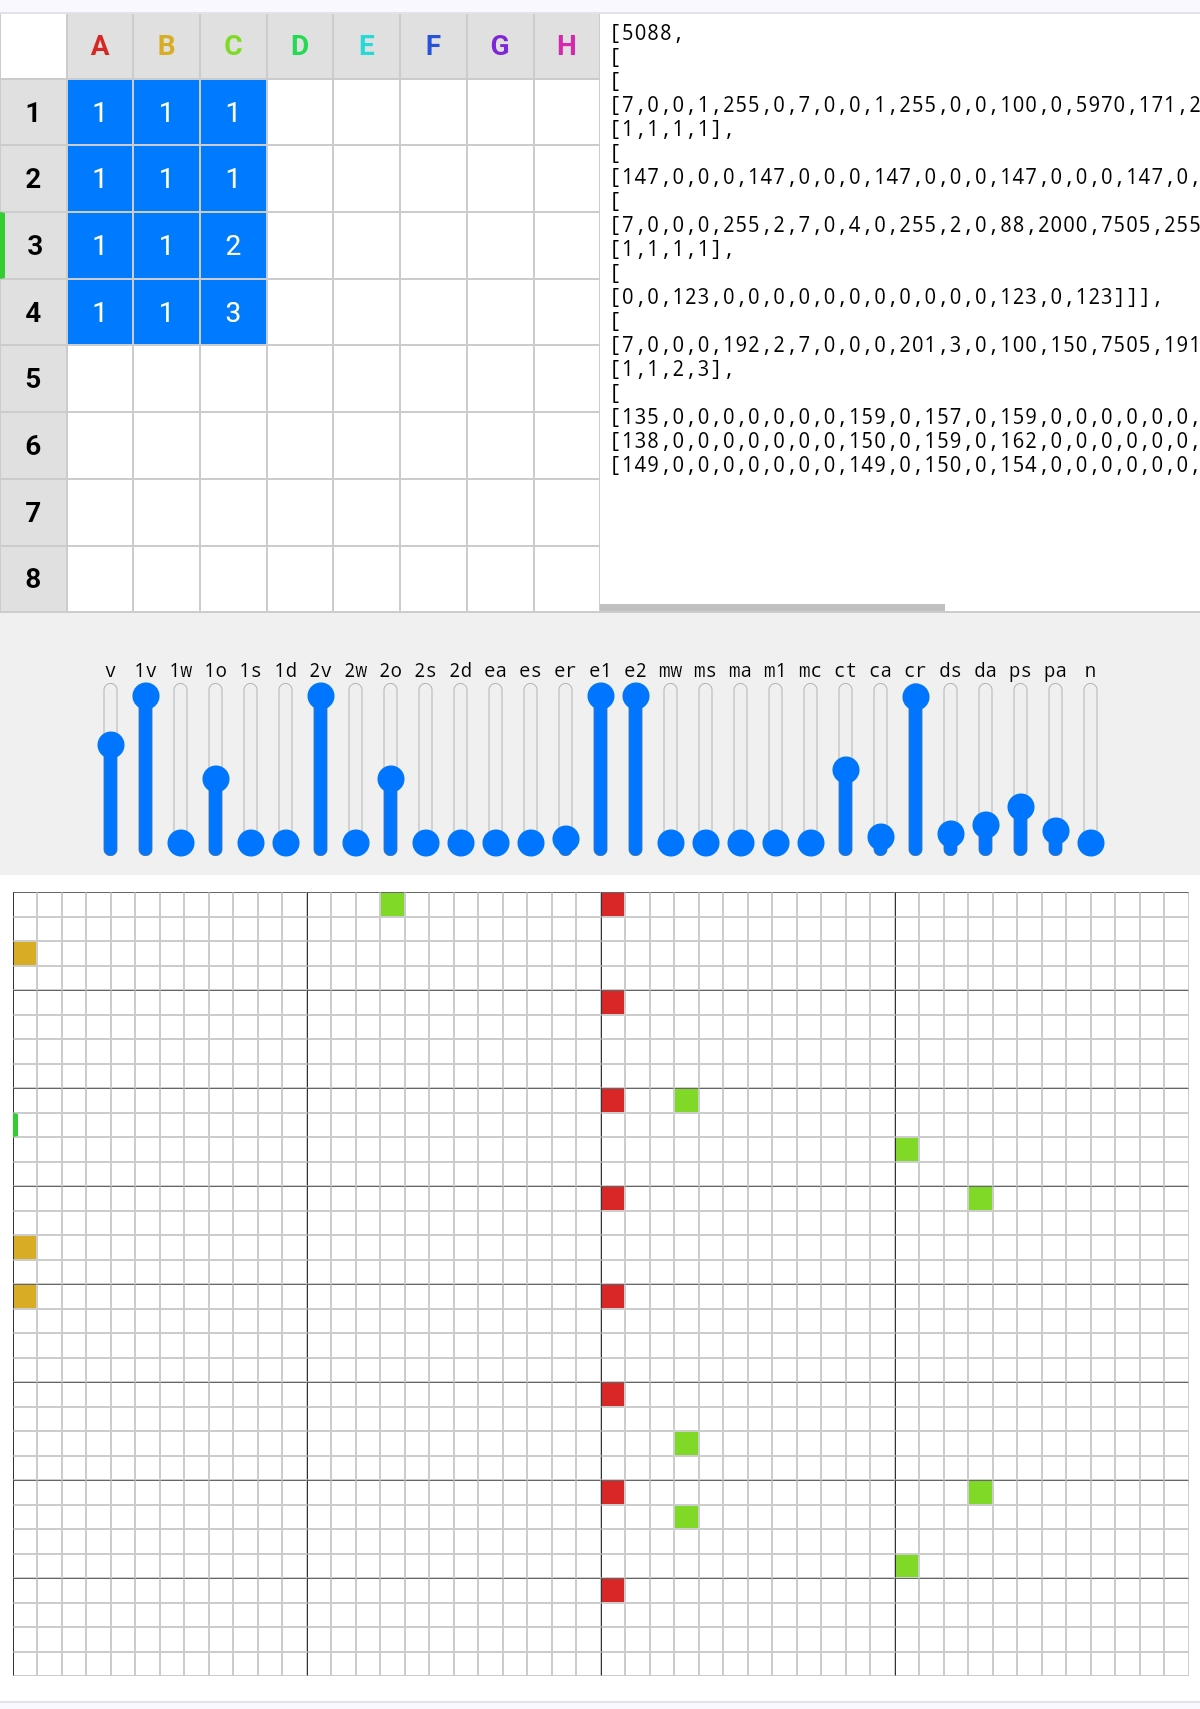
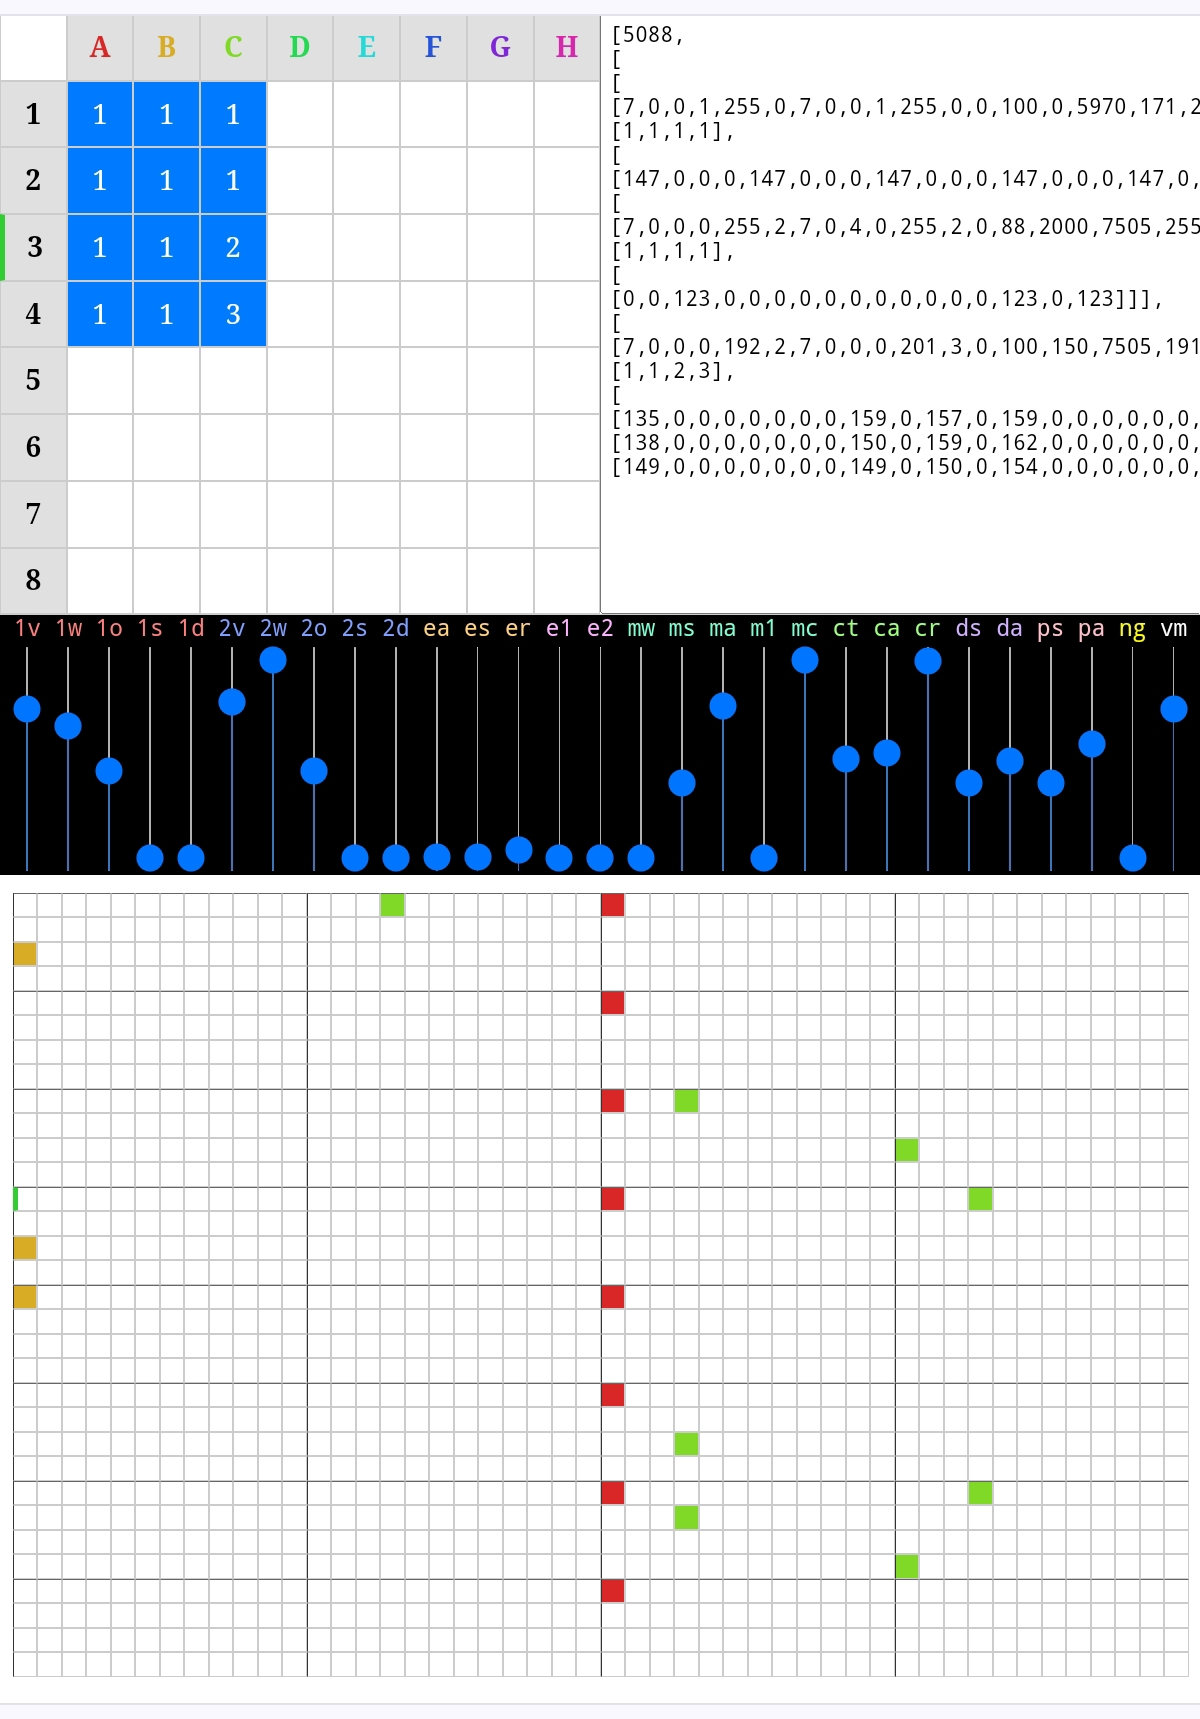
updates

diff --git a/index.js b/index.js
@@ -7,35 +7,54 @@ const WASM_SYNTH_INITIALIZER = pl_synth_wasm_init;
 
 // --- Instrument Parameter Definitions ---
 const PARAM_MAP = [
-  {label: 'v', index: 16, min: 0, max: 255, description: 'Master Volume'},
-  {label: '1v', index: 4, min: 0, max: 255, description: 'Oscillator 1: Volume'},
-  {label: '1w', index: 5, min: 0, max: 3, description: 'Oscillator 1: Waveform (0:Sin,1:Sqr,2:Saw,3:Tri)'},
-  {label: '1o', index: 0, min: 0, max: 16, description: 'Oscillator 1: Octave'},
-  {label: '1s', index: 1, min: 0, max: 11, description: 'Oscillator 1: Semitone'},
-  {label: '1d', index: 2, min: 0, max: 255, description: 'Oscillator 1: Detune'},
-  {label: '2v', index: 10, min: 0, max: 255, description: 'Oscillator 2: Volume'},
-  {label: '2w', index: 11, min: 0, max: 3, description: 'Oscillator 2: Waveform (0:Sin,1:Sqr,2:Saw,3:Tri)'},
-  {label: '2o', index: 6, min: 0, max: 16, description: 'Oscillator 2: Octave'},
-  {label: '2s', index: 7, min: 0, max: 11, description: 'Oscillator 2: Semitone'},
-  {label: '2d', index: 8, min: 0, max: 255, description: 'Oscillator 2: Detune'},
-  {label: 'ea', index: 13, min: 0, max: 200000, description: 'Envelope: Attack'},
-  {label: 'es', index: 14, min: 0, max: 200000, description: 'Envelope: Sustain'},
-  {label: 'er', index: 15, min: 0, max: 200000, description: 'Envelope: Release'},
-  {label: 'e1', index: 3, min: 0, max: 1, description: 'Oscillator 1: Env > Pitch'},
-  {label: 'e2', index: 9, min: 0, max: 1, description: 'Oscillator 2: Env > Pitch'},
-  {label: 'mw', index: 28, min: 0, max: 3, description: 'LFO: Waveform (0:Sin,1:Sqr,2:Saw,3:Tri)'},
-  {label: 'ms', index: 26, min: 0, max: 16, description: 'LFO: Speed'},
-  {label: 'ma', index: 27, min: 0, max: 255, description: 'LFO: Amount'},
-  {label: 'm1', index: 24, min: 0, max: 1, description: 'LFO > Osc 1 Pitch'},
-  {label: 'mc', index: 25, min: 0, max: 1, description: 'LFO > Filter Cutoff'},
-  {label: 'ct', index: 17, min: 0, max: 4, description: 'Filter: Type (0:Off,1:HP,2:LP,3:BP,4:Notch)'},
-  {label: 'ca', index: 18, min: 0, max: 11025, description: 'Filter: Cutoff'},
-  {label: 'cr', index: 19, min: 0, max: 255, description: 'Filter: Resonance'},
-  {label: 'ds', index: 20, min: 0, max: 16, description: 'Delay: Time'},
-  {label: 'da', index: 21, min: 0, max: 248, description: 'Delay: Amount'},
-  {label: 'ps', index: 22, min: 0, max: 16, description: 'Pan: Speed'},
-  {label: 'pa', index: 23, min: 0, max: 255, description: 'Pan: Amount'},
-  {label: 'n', index: 12, min: 0, max: 255, description: 'Noise Generator Volume'}
+  // Oscillator 1
+  {color:"#ff8080", label:'1v', index:4, min:0, max:255, description:'Oscillator 1: Volume'},
+  {color:"#ff8080", label:'1w', index:5, min:0, max:3, description:'Oscillator 1: Waveform (0:Sin,1:Sqr,2:Saw,3:Tri)'},
+  {color:"#ff8080", label:'1o', index:0, min:0, max:16, description:'Oscillator 1: Octave'},
+  {color:"#ff8080", label:'1s', index:1, min:0, max:11, description:'Oscillator 1: Semitone'},
+  {color:"#ff8080", label:'1d', index:2, min:0, max:255, description:'Oscillator 1: Detune'},
+
+  // Oscillator 2
+  {color:"#80a0ff", label:'2v', index:10, min:0, max:255, description:'Oscillator 2: Volume'},
+  {color:"#80a0ff", label:'2w', index:11, min:0, max:3, description:'Oscillator 2: Waveform (0:Sin,1:Sqr,2:Saw,3:Tri)'},
+  {color:"#80a0ff", label:'2o', index:6, min:0, max:16, description:'Oscillator 2: Octave'},
+  {color:"#80a0ff", label:'2s', index:7, min:0, max:11, description:'Oscillator 2: Semitone'},
+  {color:"#80a0ff", label:'2d', index:8, min:0, max:255, description:'Oscillator 2: Detune'},
+
+  // Envelope
+  {color:"#ffd27f", label:'ea', index:13, min:0, max:200000, description:'Envelope: Attack'},
+  {color:"#ffd27f", label:'es', index:14, min:0, max:200000, description:'Envelope: Sustain'},
+  {color:"#ffd27f", label:'er', index:15, min:0, max:200000, description:'Envelope: Release'},
+
+  // Envelope -> Pitch
+  {color:"#ffb3ff", label:'e1', index:3, min:0, max:1, description:'Oscillator 1: Env > Pitch'},
+  {color:"#ffb3ff", label:'e2', index:9, min:0, max:1, description:'Oscillator 2: Env > Pitch'},
+
+  // LFO
+  {color:"#7fffd4", label:'mw', index:28, min:0, max:3, description:'LFO: Waveform (0:Sin,1:Sqr,2:Saw,3:Tri)'},
+  {color:"#7fffd4", label:'ms', index:26, min:0, max:16, description:'LFO: Speed'},
+  {color:"#7fffd4", label:'ma', index:27, min:0, max:255, description:'LFO: Amount'},
+  {color:"#7fffd4", label:'m1', index:24, min:0, max:1, description:'LFO > Osc 1 Pitch'},
+  {color:"#7fffd4", label:'mc', index:25, min:0, max:1, description:'LFO > Filter Cutoff'},
+
+  // Filter
+  {color:"#a0ff80", label:'ct', index:17, min:0, max:4, description:'Filter: Type (0:Off,1:HP,2:LP,3:BP,4:Notch)'},
+  {color:"#a0ff80", label:'ca', index:18, min:0, max:11025, description:'Filter: Cutoff'},
+  {color:"#a0ff80", label:'cr', index:19, min:0, max:255, description:'Filter: Resonance'},
+
+  // Delay
+  {color:"#d0b0ff", label:'ds', index:20, min:0, max:16, description:'Delay: Time'},
+  {color:"#d0b0ff", label:'da', index:21, min:0, max:248, description:'Delay: Amount'},
+
+  // Pan
+  {color:"pink", label:'ps', index:22, min:0, max:16, description:'Pan: Speed'},
+  {color:"pink", label:'pa', index:23, min:0, max:255, description:'Pan: Amount'},
+
+  // Noise
+  {color:"yellow", label:'ng', index:12, min:0, max:255, description:'Noise Generator Volume'},
+
+  // Master Volume
+  {color:"#ffffff", label:'vm', index:16, min:0, max:255, description:'Master Volume'}
 ];
 
 
@@ -75,7 +94,7 @@ display: flex;
 flex-wrap: wrap;
 justify-content: space-evenly;
 align-items: flex-end;
-background-color: #f0f0f0;
+background-color: black;
 border-top: 1px solid #ccc;
 overflow-x: auto;
 }
@@ -224,10 +243,10 @@ function initInstrumentControls() {
   instrumentControlsContainer.innerHTML = '';
   PARAM_MAP.forEach(param => {
     const group = element("div", instrumentControlsContainer, "slider-group");
-    group.title = param.description;
 
     const label = element("label", group);
     label.textContent = param.label;
+    label.style.color=param.color;
 
     const slider = element("input", group, "instrument-slider");
     slider.type = "range";
